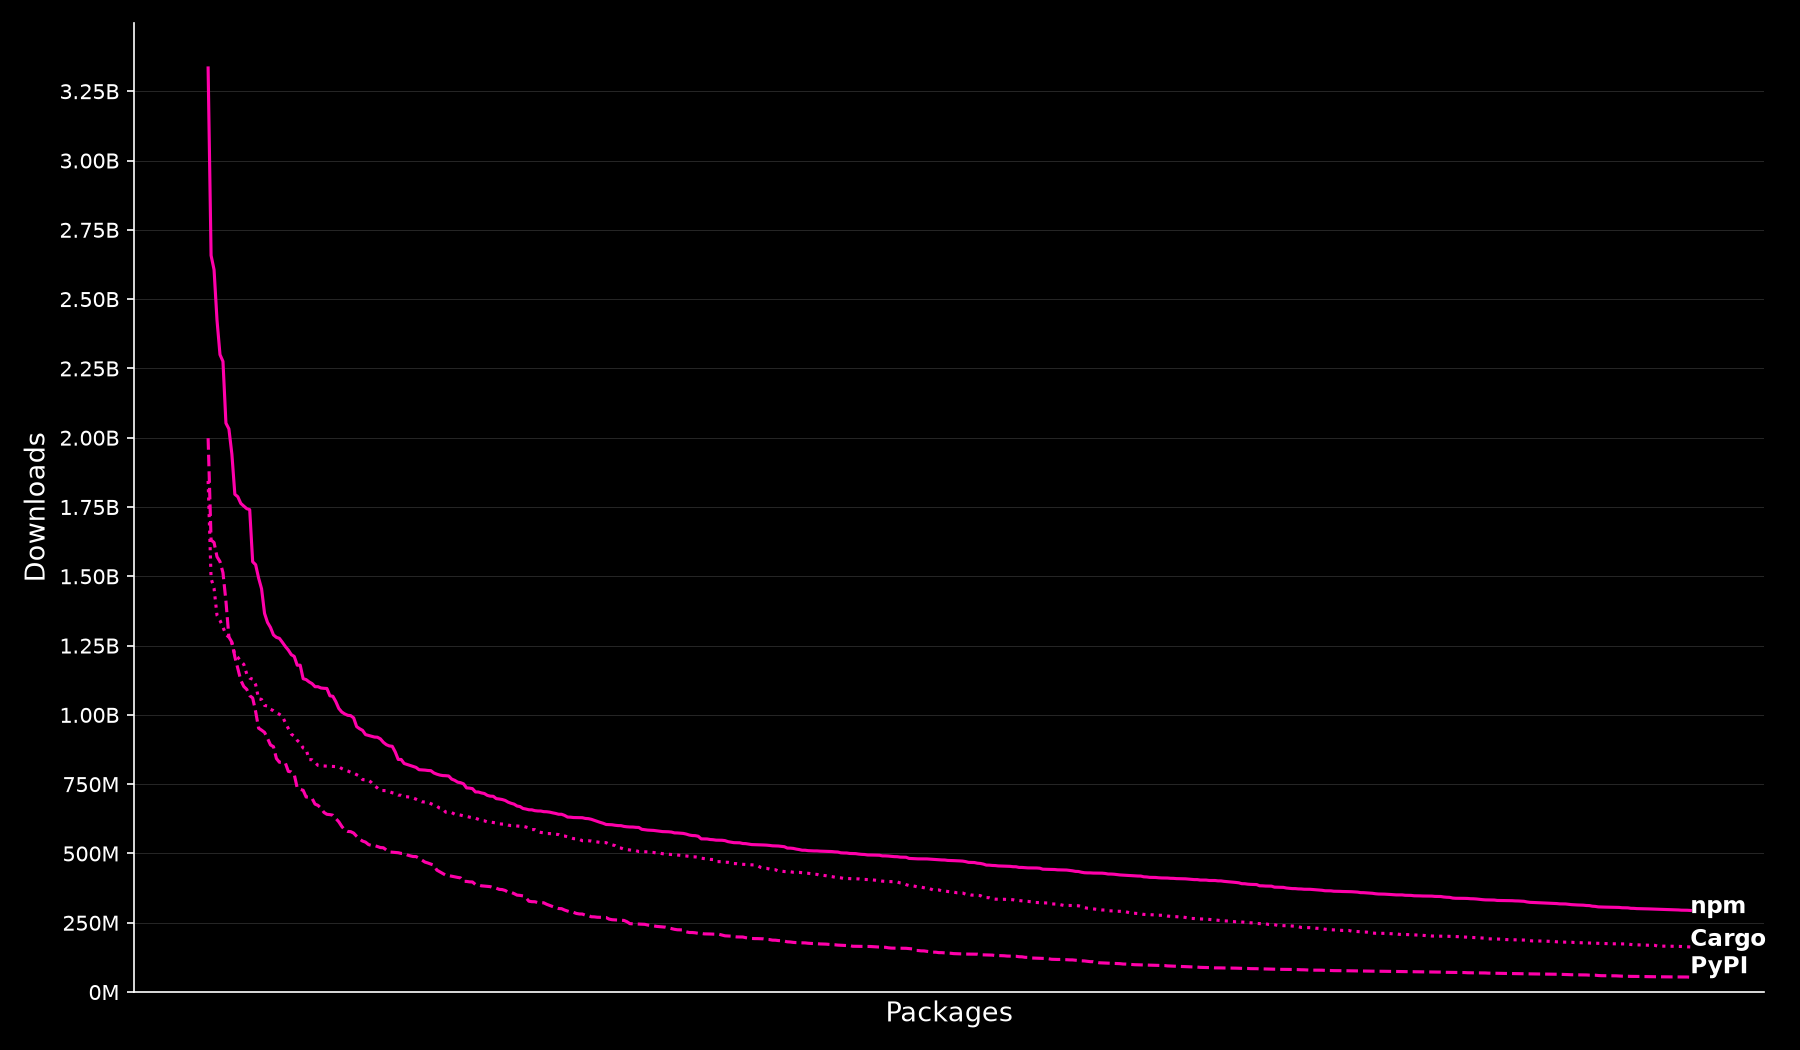
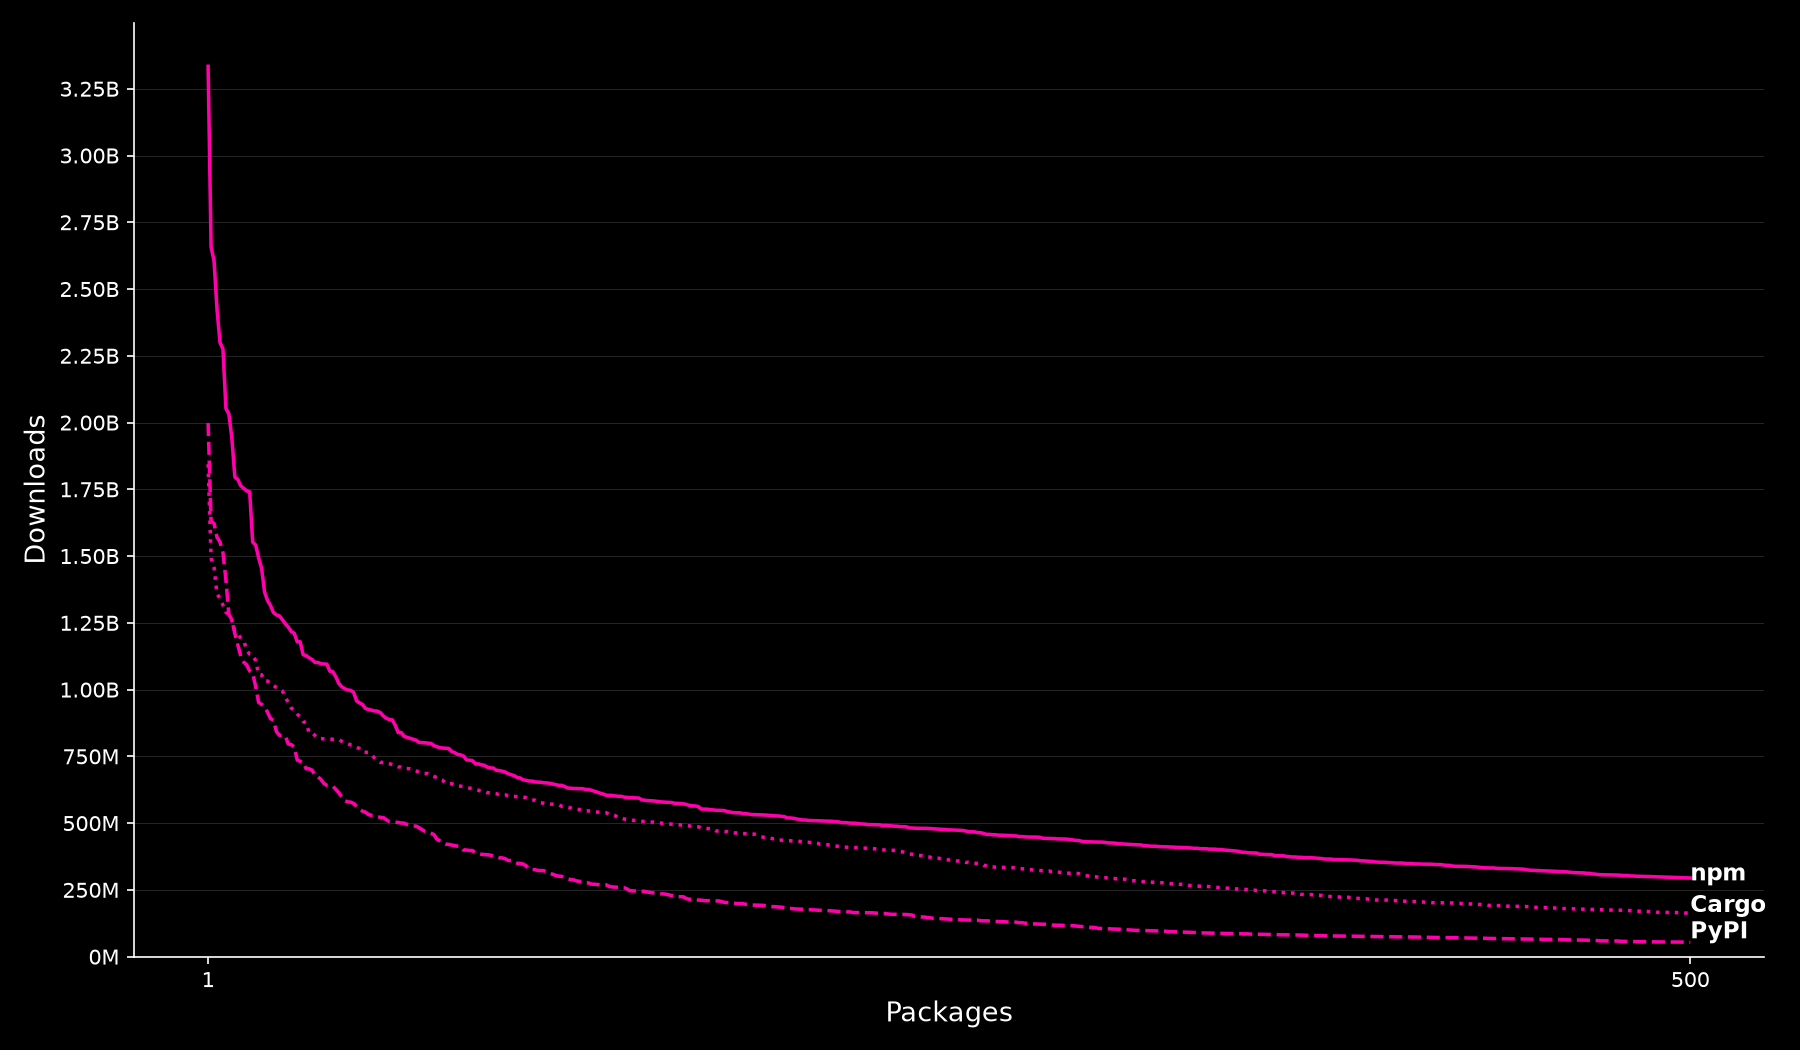
Update the graphs

diff --git a/graph1.py b/graph1.py
@@ -24,9 +24,9 @@ x_npm = range(1, len(npm_downloads) + 1)
 x_pypi = range(1, len(pypi_downloads) + 1)
 x_cargo = range(1, len(cargo_downloads) + 1)
 
-ax.plot(x_npm, npm_downloads, color=pink, linewidth=1.5)
-ax.plot(x_pypi, pypi_downloads, color=pink, linewidth=1.5, linestyle="--")
-ax.plot(x_cargo, cargo_downloads, color=pink, linewidth=1.5, linestyle=":")
+ax.plot(x_npm, npm_downloads, color=pink, linewidth=1.7)
+ax.plot(x_pypi, pypi_downloads, color=pink, linewidth=1.7, linestyle="--")
+ax.plot(x_cargo, cargo_downloads, color=pink, linewidth=1.7, linestyle=":")
 
 label_x = 500
 ax.text(label_x, npm_downloads[label_x - 1] * 0.9, "npm",
@@ -44,8 +44,8 @@ ax.yaxis.set_major_formatter(ticker.FuncFormatter(
     lambda x, _: f"{x / 1e9:.2f}B" if x >= 1e9 else f"{x / 1e6:.0f}M"))
 ax.set_ylim(bottom=0)
 
-ax.set_xticks([])
-ax.tick_params(axis="x", which="both", bottom=False)
+ax.set_xticks([1, 500])
+ax.tick_params(axis="x", which="both", bottom=True, colors="white")
 
 ax.tick_params(colors="white", which="major")
 ax.spines["bottom"].set_color("white")

diff --git a/graph2.py b/graph2.py
@@ -55,7 +55,7 @@ ax.set_xlim(0, 100)
 ax.set_xticks([0, 25, 50, 75, 100])
 ax.set_xticklabels(["0%", "25%", "50%", "75%", "100%"], color="white", fontsize=11)
 
-ax.set_xlabel("Percentage of occurrence", color="white", fontsize=13)
+# ax.set_xlabel("Percentage of occurrence", color="white", fontsize=13)
 ax.set_ylabel("Dependency type", color="white", fontsize=13)
 
 ax.tick_params(colors="white", which="both")